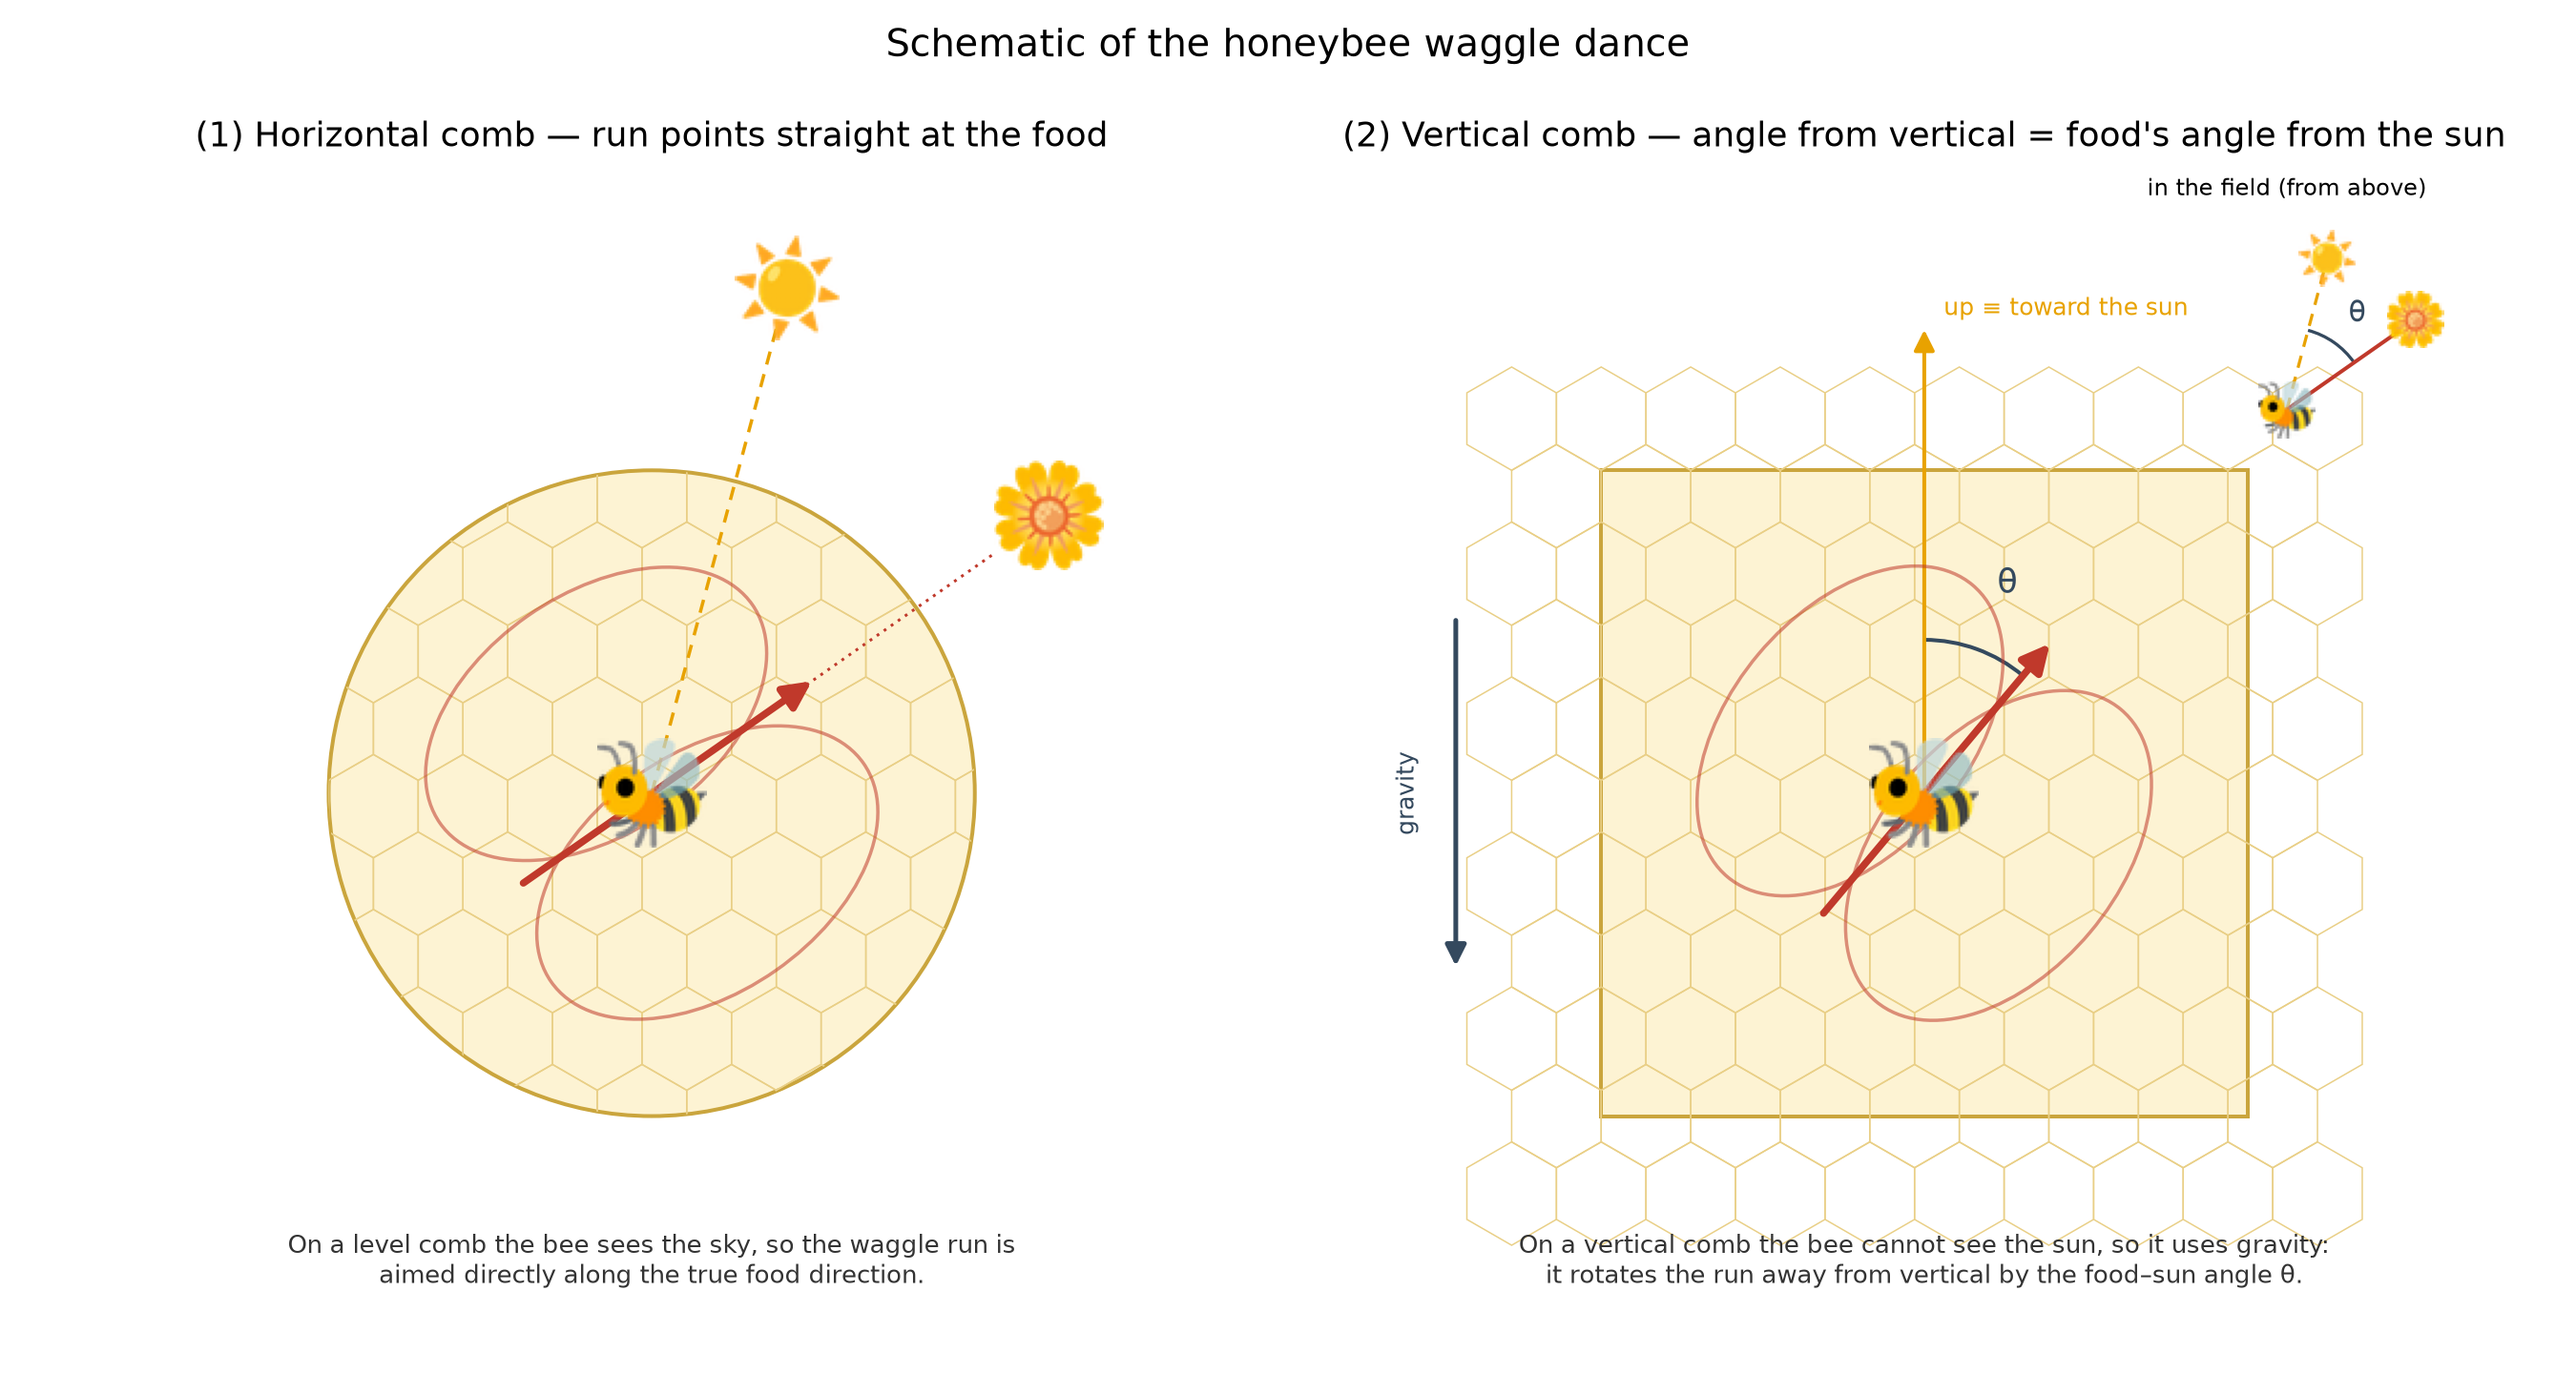
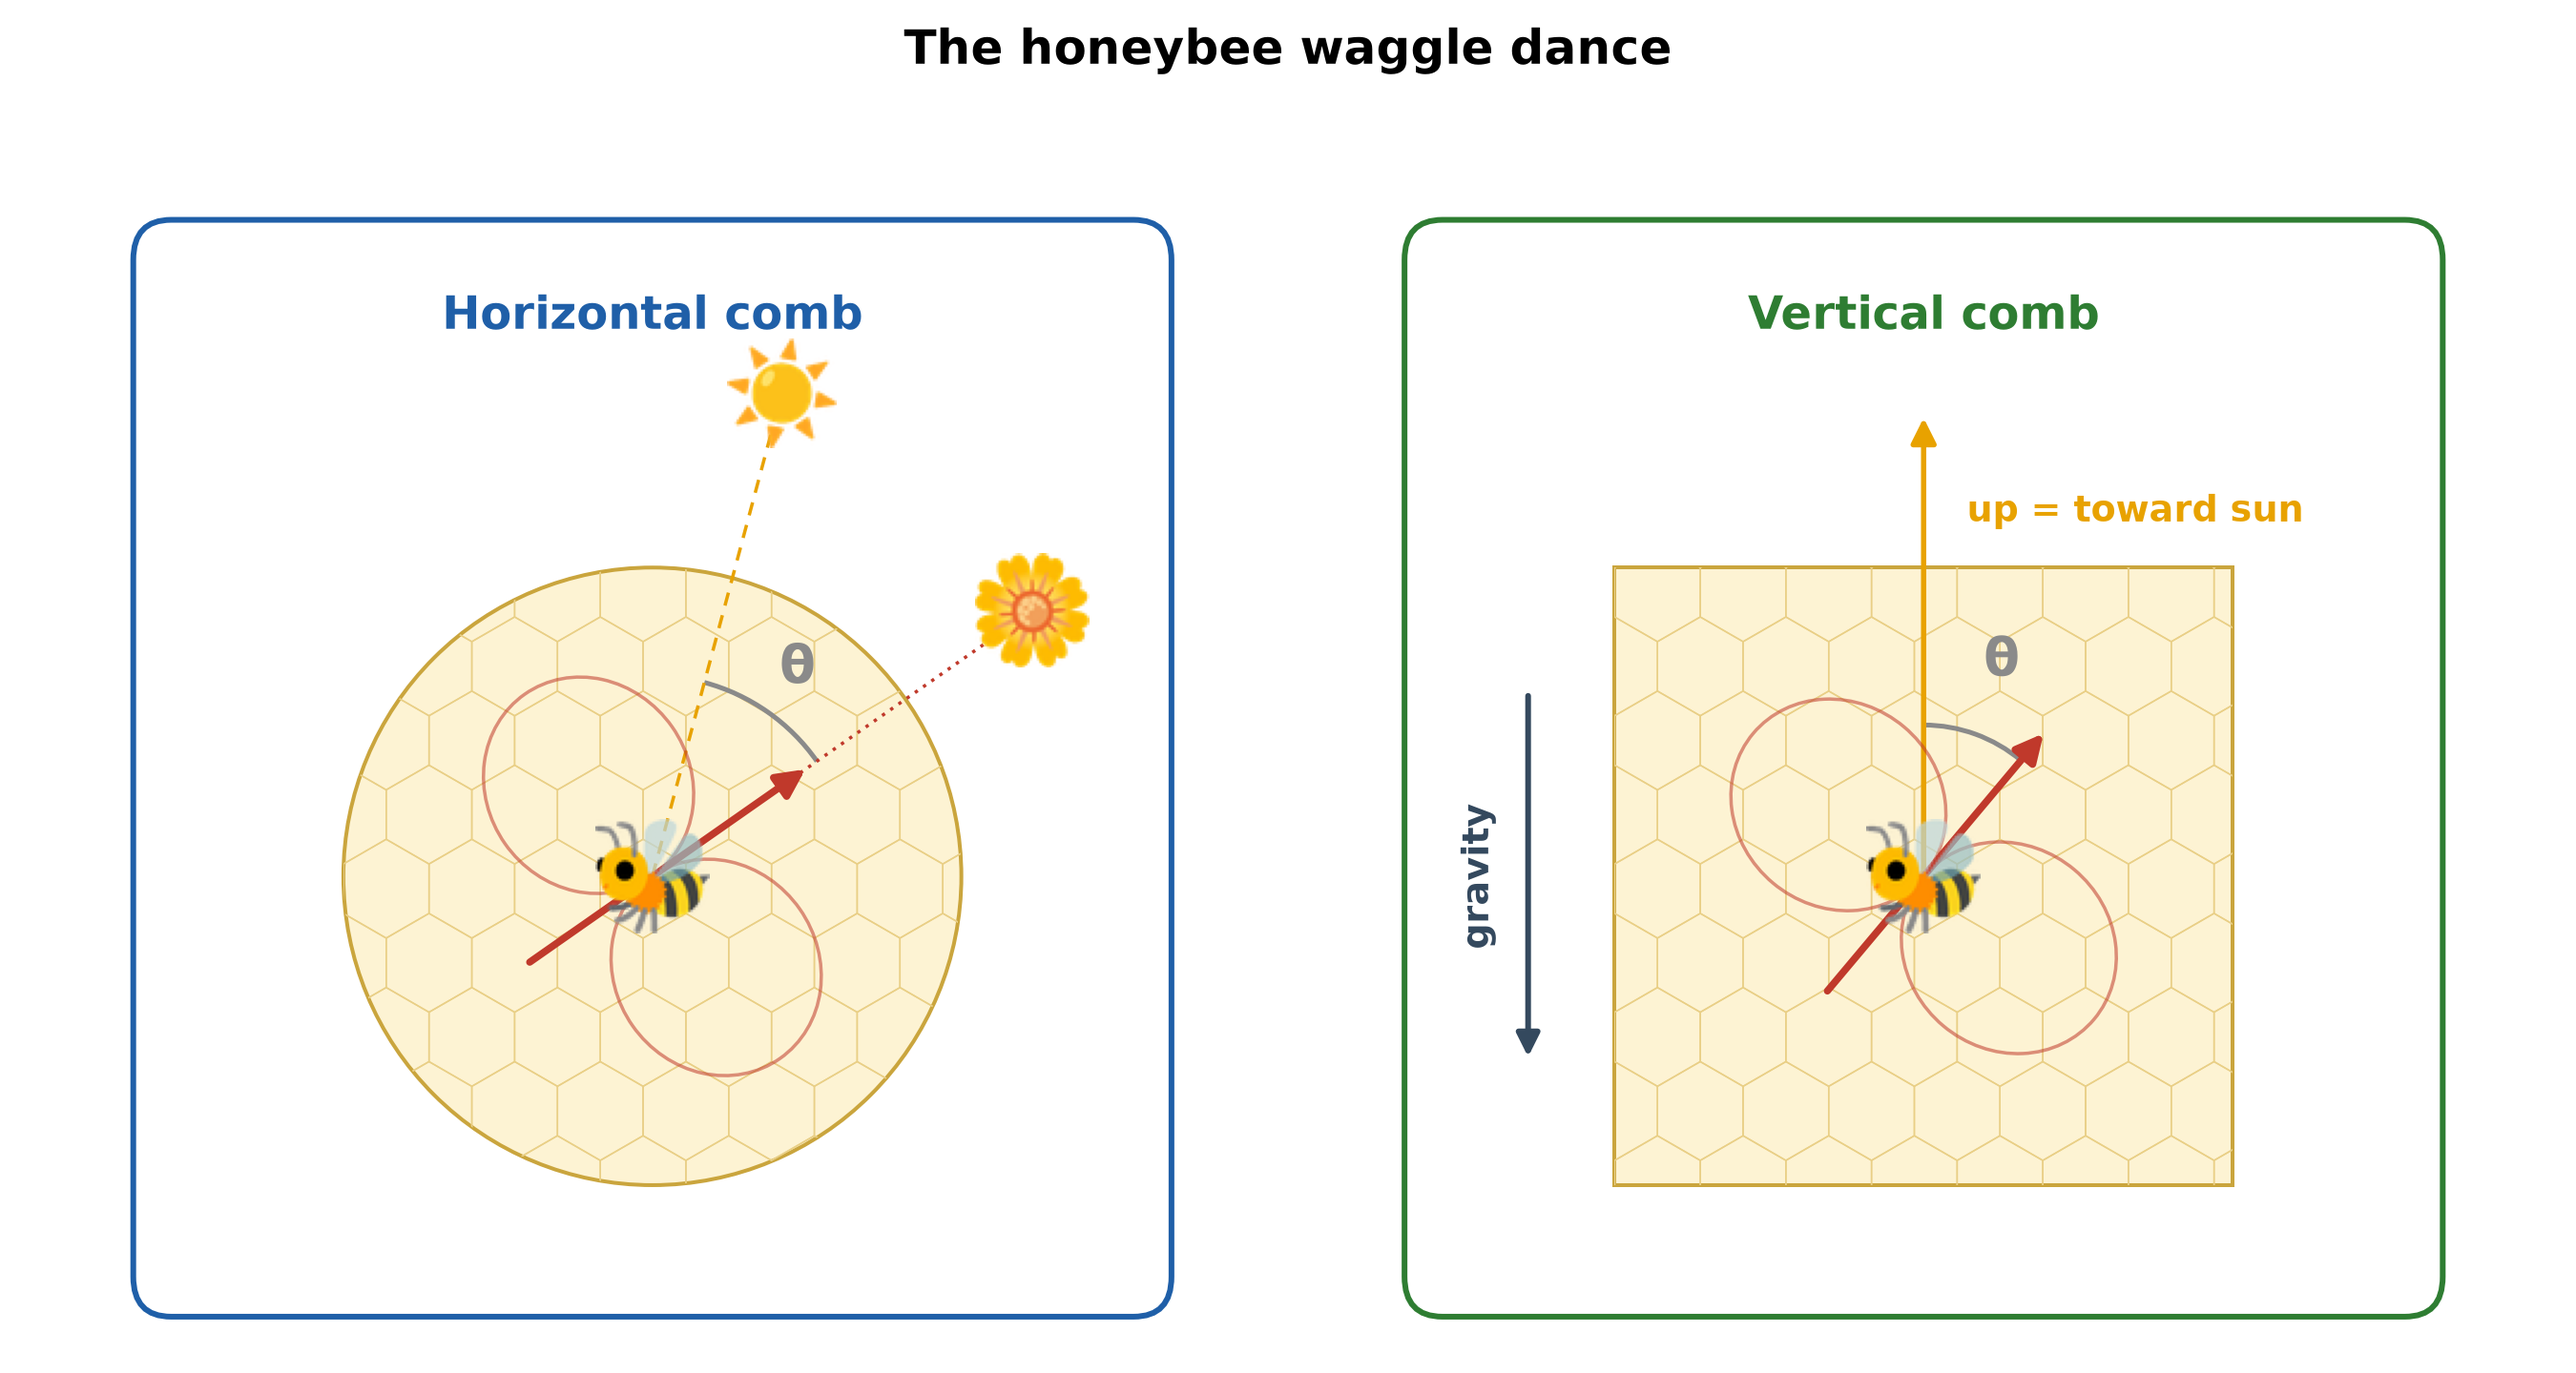
Redraw waggle-dance schematic and rework Fig. 1
- Frame each panel with a coloured header (blue/green) and drop the small
  in-figure subtitles and explanatory sentences (moved to the caption).
- Enlarge the arrow annotations; show theta in both panels in light grey;
  label "up = toward sun" and "gravity" clearly.
- Fix the figure-eight orientation to match the reference: loops bulge to
  either side of the run and meet at a single waist, decluttering the centre.
- Contain the comb hex texture within the comb outline.
- Expand the Fig. 1 caption to carry the moved explanatory text.

diff --git a/experiments/illustrate_waggle_dance.py b/experiments/illustrate_waggle_dance.py
@@ -19,7 +19,15 @@ from pathlib import Path
 import matplotlib.pyplot as plt
 import numpy as np
 from matplotlib.offsetbox import AnnotationBbox, OffsetImage
-from matplotlib.patches import Arc, Circle, Ellipse, Rectangle, RegularPolygon
+from matplotlib.patches import (
+    Arc,
+    Circle,
+    Ellipse,
+    FancyBboxPatch,
+    Rectangle,
+    RegularPolygon,
+)
+from matplotlib.transforms import Bbox, TransformedBbox
 from PIL import Image, ImageDraw, ImageFont
 
 ROOT = Path(__file__).resolve().parents[1]
@@ -35,7 +43,7 @@ plt.rcParams.update(
     {
         "font.family": "sans-serif",
         "font.sans-serif": ["DejaVu Sans", "Liberation Sans"],
-        "font.size": 12,
+        "font.size": 13,
     }
 )
 
@@ -45,6 +53,15 @@ HEX_COLOR = "#e9cf86"
 RUN_COLOR = "#c0392b"
 SUN_COLOR = "#e8a200"
 REF_COLOR = "#34495e"
+
+# Panel header colours (blue for the horizontal comb, green for the vertical one)
+# and a common style for the large arrow annotations.
+HEAD_H = "#1f5fa8"
+HEAD_V = "#2e7d32"
+LABEL_SIZE = 15
+# Light grey for the angle theta, so it does not clash with the orange sun
+# reference or the red waggle run.
+THETA_COLOR = "#8a8a8a"
 
 # Shared field geometry, measured counter-clockwise from east (the +x axis).
 # The food patch sits 40 degrees clockwise of (i.e. to the right of) the sun.
@@ -100,6 +117,12 @@ def draw_comb_texture(ax, clip_patch, bbox: tuple[float, float, float, float], r
     dx = sqrt(3.0) * radius
     dy = 1.5 * radius
 
+    # Clip to the comb outline, plus its bounding box as a robust fallback
+    # (path clipping alone can leak hexagons past a rectangular comb).
+    clip_box = TransformedBbox(
+        Bbox.from_extents(x_min, y_min, x_max, y_max), ax.transData
+    )
+
     row = 0
     y = y_min - dy
     while y <= y_max + dy:
@@ -116,8 +139,9 @@ def draw_comb_texture(ax, clip_patch, bbox: tuple[float, float, float, float], r
                 linewidth=0.6,
                 zorder=1,
             )
-            hexagon.set_clip_path(clip_patch)
             ax.add_patch(hexagon)
+            hexagon.set_clip_path(clip_patch)
+            hexagon.set_clip_box(clip_box)
             x += dx
         y += dy
         row += 1
@@ -130,14 +154,15 @@ def draw_waggle(ax, center: tuple[float, float], angle_deg: float, length: float
     px, py = -sin(angle), cos(angle)
     cx, cy = center
 
-    # The two return loops, offset perpendicular to the run and overlapping
-    # along it so the straight run threads through the middle of the "8".
-    loop_offset = 0.30 * length
+    # Two return loops bulge to either side of the run (perpendicular to it) and
+    # meet at a single waist at the centre, hidden by the bee: the classic
+    # figure-eight, with the straight waggle run threading through toward the food.
+    loop_offset = 0.36 * length
     for sign in (-1.0, 1.0):
         loop = Ellipse(
             (cx + sign * loop_offset * px, cy + sign * loop_offset * py),
-            width=1.18 * length,
-            height=0.74 * length,
+            width=0.66 * length,
+            height=0.72 * length,
             angle=angle_deg,
             fill=False,
             edgecolor=RUN_COLOR,
@@ -171,12 +196,34 @@ def draw_ray(ax, angle_deg: float, length: float, color: str, style: str, lw: fl
     )
 
 
+def draw_panel_frame(ax, color: str, title: str) -> None:
+    """Draw a rounded border box with a coloured header for one panel."""
+    frame = FancyBboxPatch(
+        (0.02, 0.02),
+        0.96,
+        0.96,
+        boxstyle="round,pad=0,rounding_size=0.035",
+        transform=ax.transAxes,
+        facecolor="none",
+        edgecolor=color,
+        linewidth=2.4,
+        zorder=20,
+        clip_on=False,
+    )
+    ax.add_patch(frame)
+    ax.text(
+        0.5, 0.895, title,
+        transform=ax.transAxes, ha="center", va="center",
+        fontsize=19, fontweight="bold", color=color, zorder=21,
+    )
+
+
 def draw_horizontal_panel(ax) -> None:
-    ax.set_title("(1) Horizontal comb — run points straight at the food", pad=14)
-    ax.set_xlim(-1.7, 1.7)
-    ax.set_ylim(-1.7, 1.9)
+    ax.set_xlim(-1.75, 1.75)
+    ax.set_ylim(-1.5, 2.2)
     ax.set_aspect("equal")
     ax.axis("off")
+    draw_panel_frame(ax, HEAD_H, "Horizontal comb")
 
     comb = Circle(
         (0, 0), 1.0, facecolor=COMB_FILL, edgecolor=COMB_EDGE, linewidth=1.6, zorder=0
@@ -186,72 +233,47 @@ def draw_horizontal_panel(ax) -> None:
 
     # Guide rays toward the sun and the food, in the bee's own (world) frame.
     draw_ray(ax, SUN_AZIMUTH_DEG, 1.5, SUN_COLOR, (0, (4, 3)), lw=1.4)
-    draw_ray(ax, FOOD_AZIMUTH_DEG, 1.3, RUN_COLOR, (0, (1, 2)), lw=1.2)
+    draw_ray(ax, FOOD_AZIMUTH_DEG, 1.35, RUN_COLOR, (0, (1, 2)), lw=1.4)
 
     draw_waggle(ax, (0.0, 0.0), FOOD_AZIMUTH_DEG, length=1.0)
-    place_emoji(ax, 0, 0, "🐝", 46)
-
+    place_emoji(ax, 0, 0, "🐝", 48)
     place_emoji(
         ax,
         1.5 * cos(radians(FOOD_AZIMUTH_DEG)),
         1.5 * sin(radians(FOOD_AZIMUTH_DEG)),
         "🌼",
-        46,
+        48,
     )
     place_emoji(
         ax,
         1.62 * cos(radians(SUN_AZIMUTH_DEG)),
         1.62 * sin(radians(SUN_AZIMUTH_DEG)),
         "☀",
-        44,
-    )
-    ax.text(
-        0.0,
-        -1.45,
-        "On a level comb the bee sees the sky, so the waggle run is\n"
-        "aimed directly along the true food direction.",
-        ha="center",
-        va="center",
-        fontsize=10.5,
-        color="#333333",
+        46,
     )
 
-
-def draw_field_inset(ax) -> None:
-    ax.set_xlim(-1.25, 1.25)
-    ax.set_ylim(-0.5, 1.4)
-    ax.set_aspect("equal")
-    ax.axis("off")
-    ax.set_title("in the field (from above)", fontsize=9.5, pad=2)
-
-    draw_ray(ax, SUN_AZIMUTH_DEG, 1.0, SUN_COLOR, (0, (4, 3)), lw=1.3)
-    draw_ray(ax, FOOD_AZIMUTH_DEG, 0.95, RUN_COLOR, "-", lw=1.6)
+    # Angle between the food and sun directions (the food–sun angle theta) --
+    # the same angle the vertical comb reproduces against gravity.
     ax.add_patch(
         Arc(
-            (0, 0),
-            1.1,
-            1.1,
-            angle=0.0,
-            theta1=FOOD_AZIMUTH_DEG,
-            theta2=SUN_AZIMUTH_DEG,
-            color=REF_COLOR,
-            linewidth=1.3,
+            (0, 0), 1.3, 1.3, angle=0.0,
+            theta1=FOOD_AZIMUTH_DEG, theta2=SUN_AZIMUTH_DEG,
+            color=THETA_COLOR, linewidth=2.0,
         )
     )
     mid = radians((SUN_AZIMUTH_DEG + FOOD_AZIMUTH_DEG) / 2.0)
-    ax.text(0.72 * cos(mid), 0.72 * sin(mid), "θ", fontsize=12, color=REF_COLOR)
-
-    place_emoji(ax, 0, 0, "🐝", 24)
-    place_emoji(ax, 1.05 * cos(radians(SUN_AZIMUTH_DEG)), 1.05 * sin(radians(SUN_AZIMUTH_DEG)), "☀", 24)
-    place_emoji(ax, 1.05 * cos(radians(FOOD_AZIMUTH_DEG)), 1.05 * sin(radians(FOOD_AZIMUTH_DEG)), "🌼", 24)
+    ax.text(
+        0.82 * cos(mid), 0.82 * sin(mid), "θ",
+        fontsize=22, color=THETA_COLOR, ha="center", va="center", fontweight="bold",
+    )
 
 
 def draw_vertical_panel(ax) -> None:
-    ax.set_title("(2) Vertical comb — angle from vertical = food's angle from the sun", pad=14)
-    ax.set_xlim(-1.7, 1.7)
-    ax.set_ylim(-1.7, 1.9)
+    ax.set_xlim(-1.75, 1.75)
+    ax.set_ylim(-1.5, 2.2)
     ax.set_aspect("equal")
     ax.axis("off")
+    draw_panel_frame(ax, HEAD_V, "Vertical comb")
 
     comb = Rectangle(
         (-1.0, -1.0),
@@ -268,57 +290,49 @@ def draw_vertical_panel(ax) -> None:
     # "Up" on the comb represents the direction of the sun.
     ax.annotate(
         "",
-        xy=(0.0, 1.45),
+        xy=(0.0, 1.5),
         xytext=(0.0, 0.0),
-        arrowprops=dict(arrowstyle="-|>", color=SUN_COLOR, lw=1.6, mutation_scale=18),
+        arrowprops=dict(arrowstyle="-|>", color=SUN_COLOR, lw=2.2, mutation_scale=22),
         zorder=3,
     )
-    ax.text(0.06, 1.5, "up ≡ toward the sun", color=SUN_COLOR, fontsize=10, va="center")
+    ax.text(
+        0.14, 1.18, "up = toward sun",
+        color=SUN_COLOR, fontsize=LABEL_SIZE, va="center", ha="left",
+        fontweight="bold",
+    )
 
     # Gravity reference.
     ax.annotate(
         "",
-        xy=(-1.45, -0.55),
-        xytext=(-1.45, 0.55),
-        arrowprops=dict(arrowstyle="-|>", color=REF_COLOR, lw=2.0, mutation_scale=18),
+        xy=(-1.28, -0.6),
+        xytext=(-1.28, 0.6),
+        arrowprops=dict(arrowstyle="-|>", color=REF_COLOR, lw=2.4, mutation_scale=20),
         zorder=3,
     )
-    ax.text(-1.6, 0.0, "gravity", color=REF_COLOR, fontsize=10, rotation=90, va="center", ha="center")
+    ax.text(
+        -1.44, 0.0, "gravity",
+        color=REF_COLOR, fontsize=LABEL_SIZE, rotation=90, va="center", ha="center",
+        fontweight="bold",
+    )
 
     # Waggle run is THETA_DEG clockwise of straight up (90 deg from +x axis).
     run_angle = 90.0 - THETA_DEG
     draw_waggle(ax, (0.0, 0.0), run_angle, length=1.0)
-    place_emoji(ax, 0, 0, "🐝", 46)
+    place_emoji(ax, 0, 0, "🐝", 48)
 
     # Angle arc between "up" and the waggle run.
     ax.add_patch(
         Arc(
-            (0, 0),
-            0.95,
-            0.95,
-            angle=0.0,
-            theta1=run_angle,
-            theta2=90.0,
-            color=REF_COLOR,
-            linewidth=1.6,
+            (0, 0), 0.98, 0.98, angle=0.0,
+            theta1=run_angle, theta2=90.0,
+            color=THETA_COLOR, linewidth=2.0,
         )
     )
     mid = radians((90.0 + run_angle) / 2.0)
-    ax.text(0.66 * cos(mid), 0.66 * sin(mid), "θ", fontsize=14, color=REF_COLOR)
-
     ax.text(
-        0.0,
-        -1.45,
-        "On a vertical comb the bee cannot see the sun, so it uses gravity:\n"
-        "it rotates the run away from vertical by the food–sun angle θ.",
-        ha="center",
-        va="center",
-        fontsize=10.5,
-        color="#333333",
+        0.74 * cos(mid), 0.74 * sin(mid), "θ",
+        fontsize=22, color=THETA_COLOR, ha="center", va="center", fontweight="bold",
     )
-
-    inset = ax.inset_axes([0.66, 0.7, 0.34, 0.32])
-    draw_field_inset(inset)
 
 
 def main() -> None:
@@ -329,8 +343,10 @@ def main() -> None:
     draw_horizontal_panel(left)
     draw_vertical_panel(right)
 
-    fig.suptitle("Schematic of the honeybee waggle dance", fontsize=16, y=0.98)
-    fig.tight_layout(rect=(0, 0, 1, 0.95))
+    fig.suptitle(
+        "The honeybee waggle dance", fontsize=20, fontweight="bold", y=0.98
+    )
+    fig.tight_layout(rect=(0, 0, 1, 0.94))
     fig.savefig(args.output, dpi=180)
     print(f"saved {args.output}")
 

diff --git a/report/paper.tex b/report/paper.tex
@@ -77,10 +77,13 @@ can shift from an iconic to a more abstract form.
 \begin{figure}
 \centering
 \includegraphics[width=0.7\textwidth]{figures/waggle_dance_schematic.png}   
-\caption{The waggle dance of honeybees on a horizontal exposed comb (left)
-and on a vertical comb (right). On a vertical comb the waggle does not
-point directly to the food site, but rather indicates the site's
-azimuth relative to the sun by means of the waggle's angle to the vertical.}
+\caption{The two variants of the honeybee waggle dance. On a horizontal,
+exposed comb (left) the bee sees the sky and aims the straight waggle run
+directly along the true direction to the food. On a vertical comb (right) the
+bee cannot point at the food, so it uses gravity as a reference: it rotates the
+run away from vertical (``up'', which stands for the direction of the sun) by an
+angle $\theta$ equal to the food's azimuth relative to the sun. The figure-eight
+loops and the central waggle run are schematic and not to scale.}
 \label{fig:waggle}  
 \end{figure}
 
